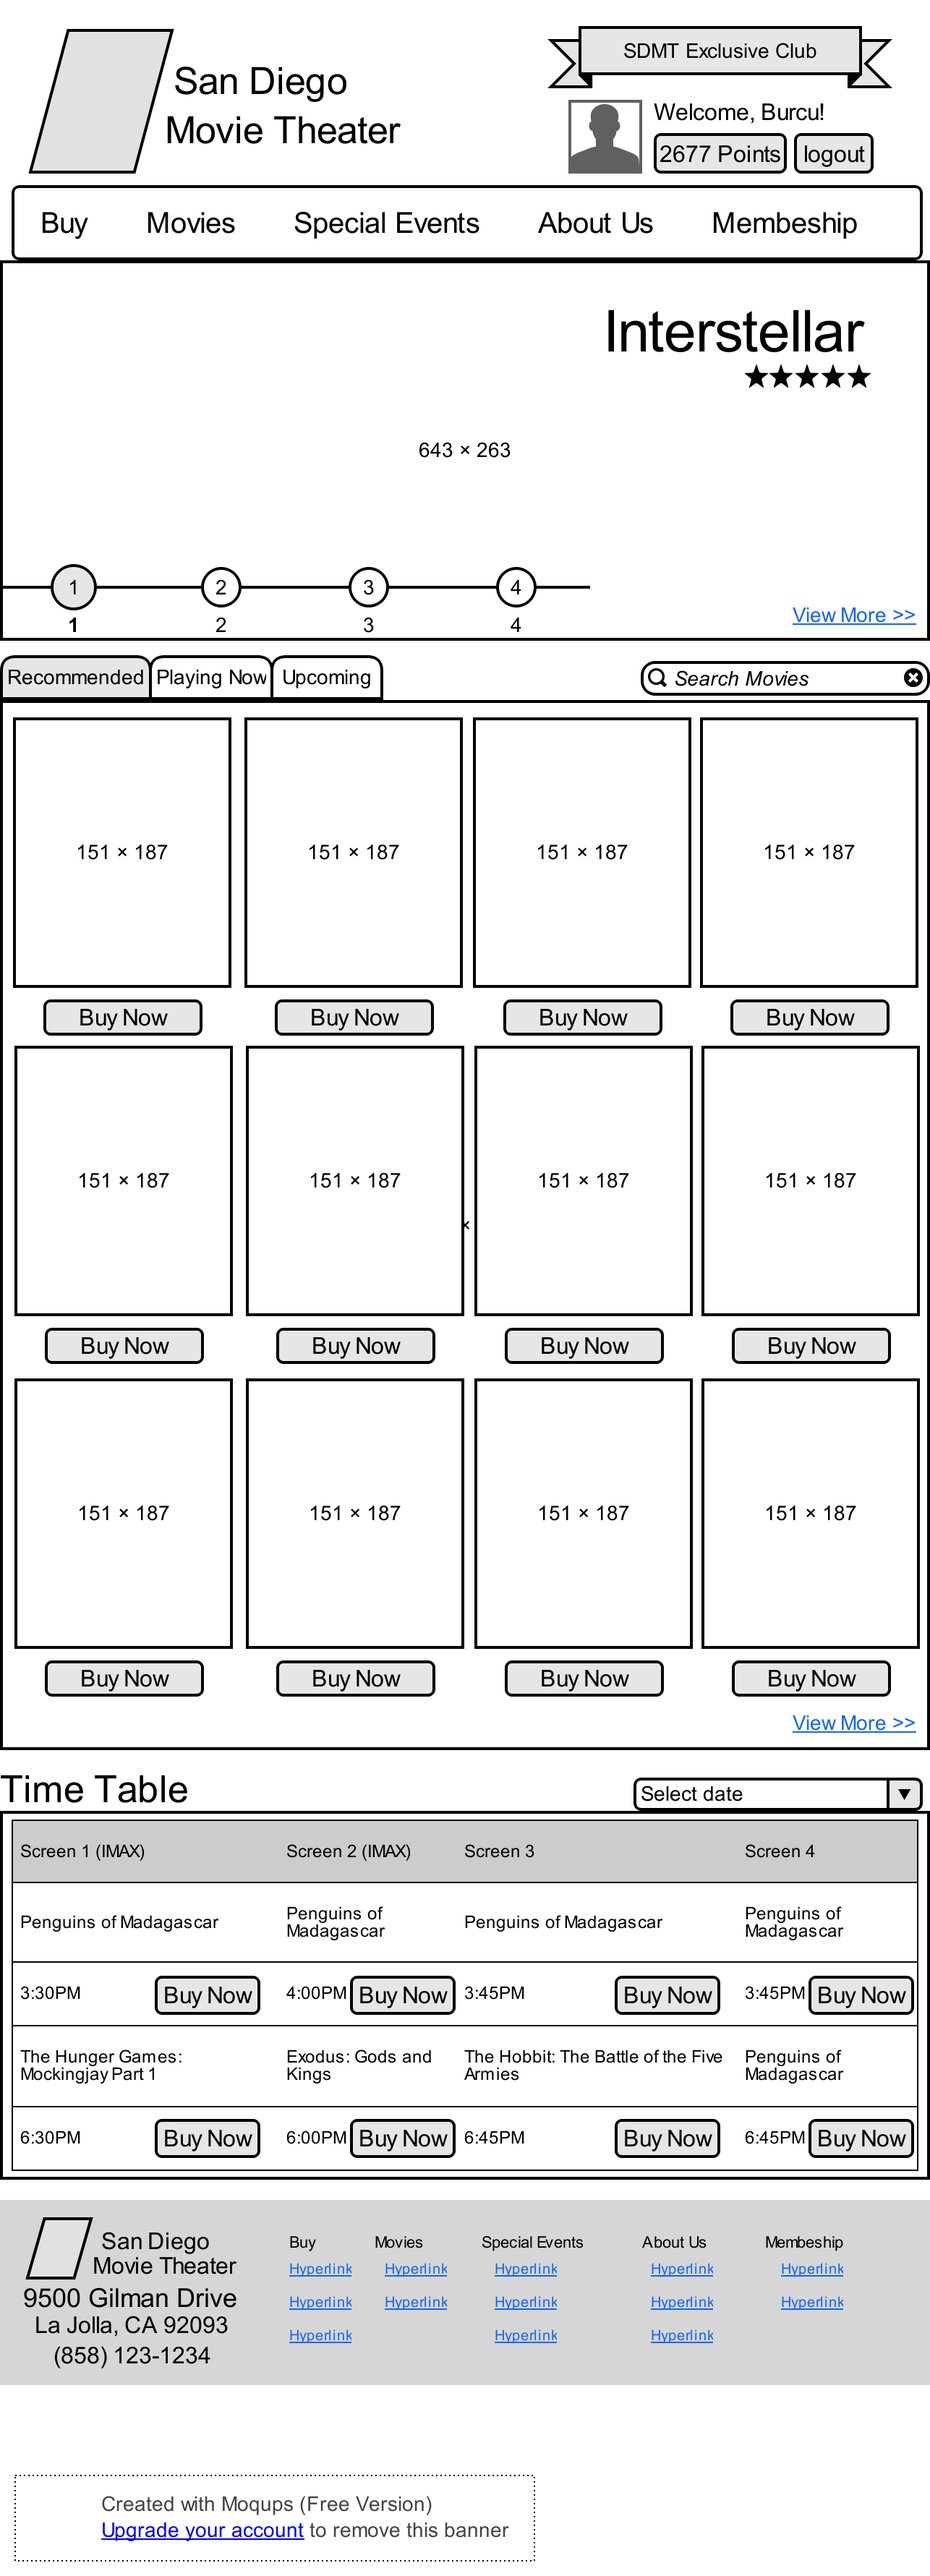
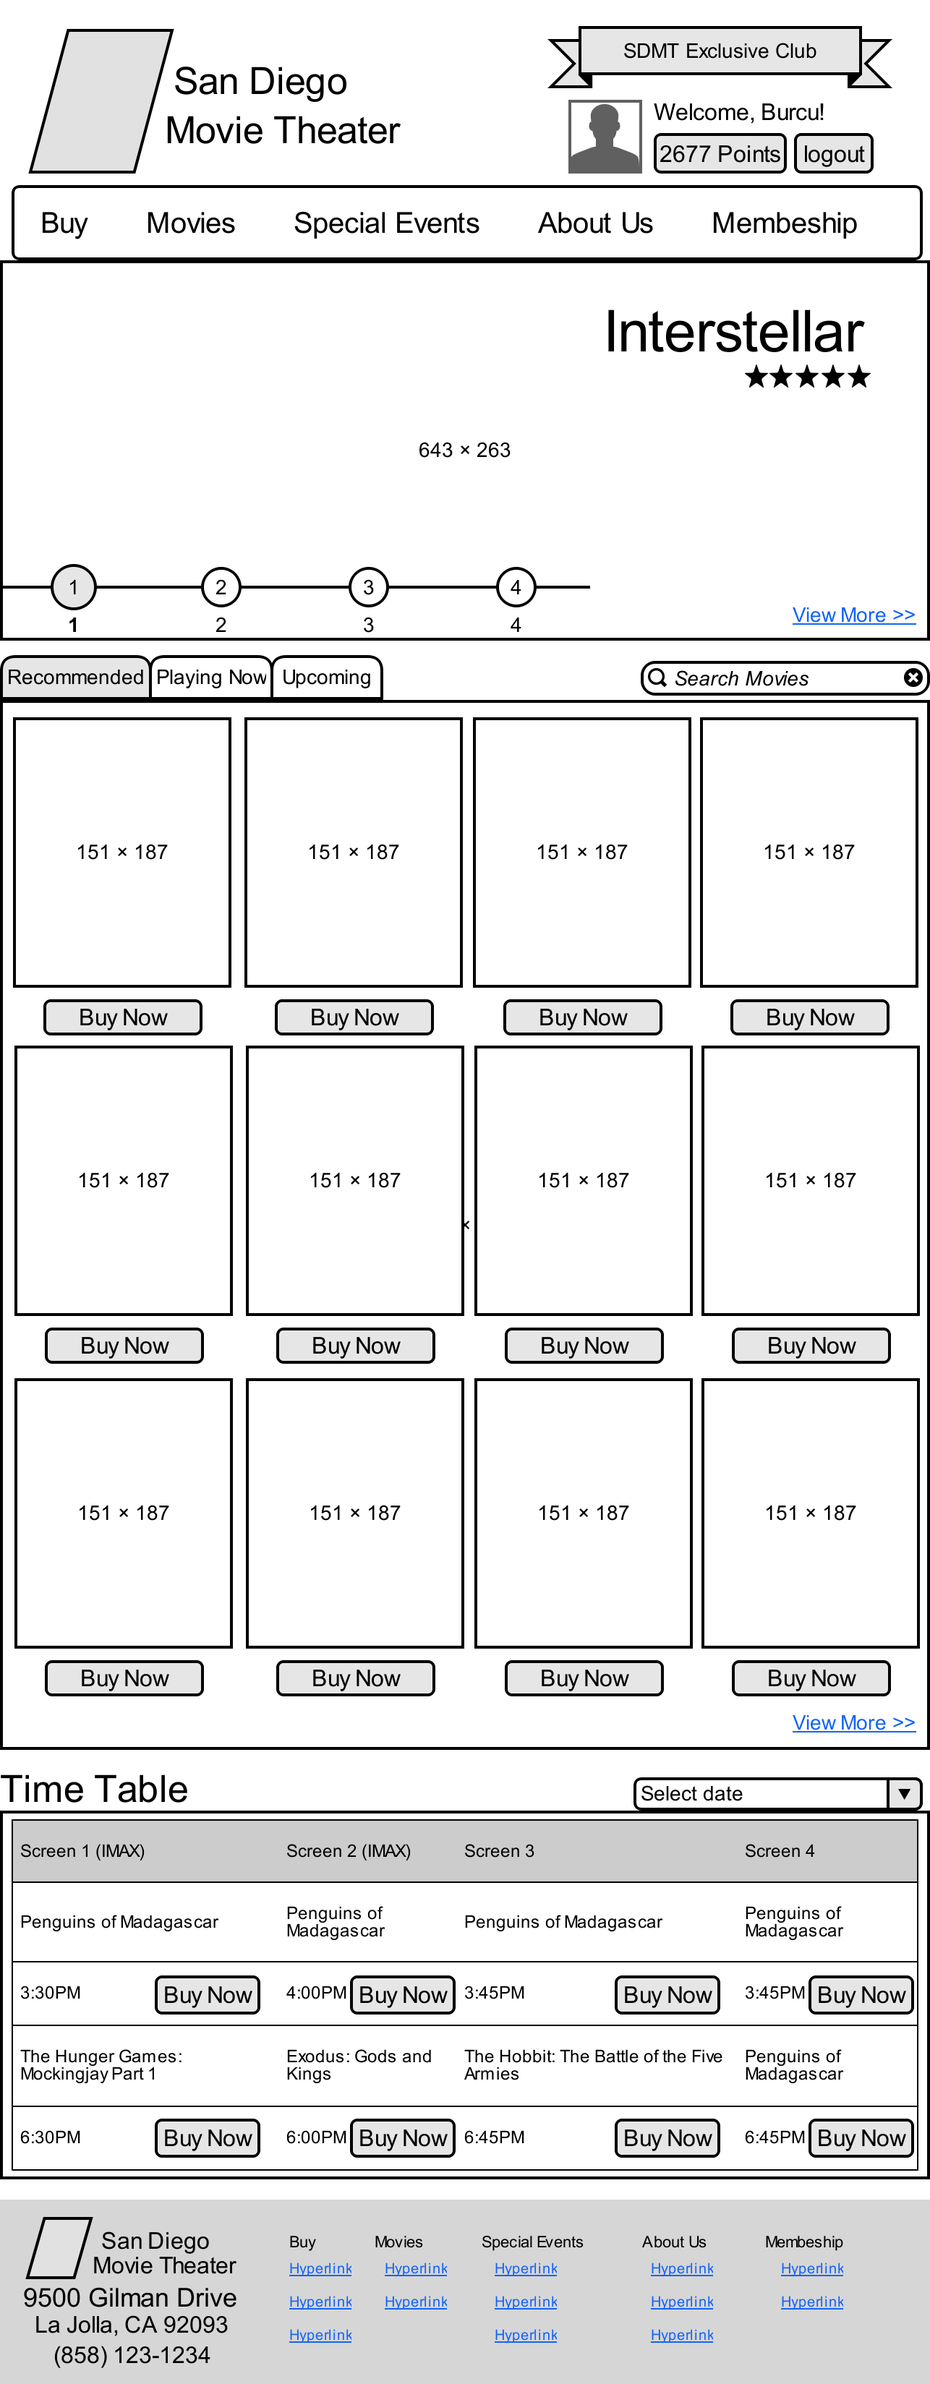
update

diff --git a/_03_part-two/wire_index_login.html b/_03_part-two/wire_index_login.html
@@ -32,7 +32,7 @@
           </div>
       </div>
     </header>
-    <header class="globalTopWrap"><div class="wrap row">
+<header class="globalTopWrap"><div class="wrap row">
         <nav class="top-bar globalTop column small-9" data-topbar role="navigation">
             <section class="top-bar-section">
             <!-- Right Nav Section -->
@@ -87,7 +87,9 @@
             </ul>
           </section>
         </nav>
-       
+          <div class="column small-3 wireframe-link">
+            <a href="index.html" class="button">TAKE ME BACK</a>
+          </div>
     </div></header>
     
     <!-- defaultbody -->

diff --git a/_03_part-two/wire_movie.html b/_03_part-two/wire_movie.html
@@ -32,7 +32,7 @@
           </div>
       </div>
     </header>
-    <header class="globalTopWrap"><div class="wrap row">
+<header class="globalTopWrap"><div class="wrap row">
         <nav class="top-bar globalTop column small-9" data-topbar role="navigation">
             <section class="top-bar-section">
             <!-- Right Nav Section -->
@@ -87,7 +87,9 @@
             </ul>
           </section>
         </nav>
-       
+          <div class="column small-3 wireframe-link">
+            <a href="index.html" class="button">TAKE ME BACK</a>
+          </div>
     </div></header>
     
     <!-- defaultbody -->

diff --git a/_03_part-two/wire_ticket.html b/_03_part-two/wire_ticket.html
@@ -32,7 +32,7 @@
           </div>
       </div>
     </header>
-    <header class="globalTopWrap"><div class="wrap row">
+<header class="globalTopWrap"><div class="wrap row">
         <nav class="top-bar globalTop column small-9" data-topbar role="navigation">
             <section class="top-bar-section">
             <!-- Right Nav Section -->
@@ -87,7 +87,9 @@
             </ul>
           </section>
         </nav>
-       
+          <div class="column small-3 wireframe-link">
+            <a href="index.html" class="button">TAKE ME BACK</a>
+          </div>
     </div></header>
     
     <!-- defaultbody -->

diff --git a/_03_part-two/css/app.css b/_03_part-two/css/app.css
@@ -288,6 +288,9 @@ input[type="button"]:active {
 	text-align: center;
 }
 body>div.full-width:first-of-type {
+	margin-top:0px;
+}
+#frontpageslider{
 	margin-top:-40px;
 }
 .pricing-table {
